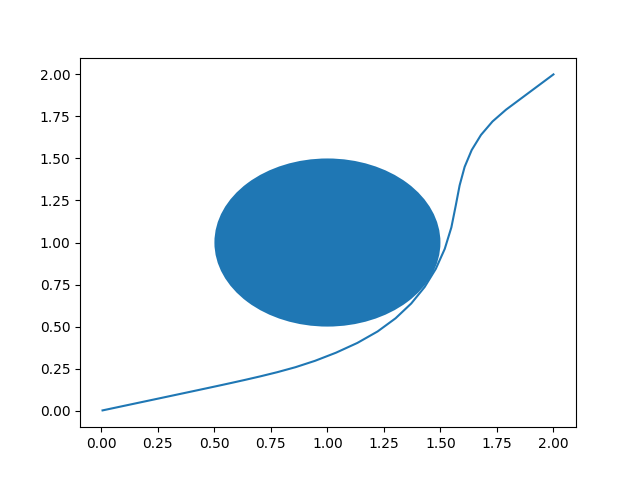
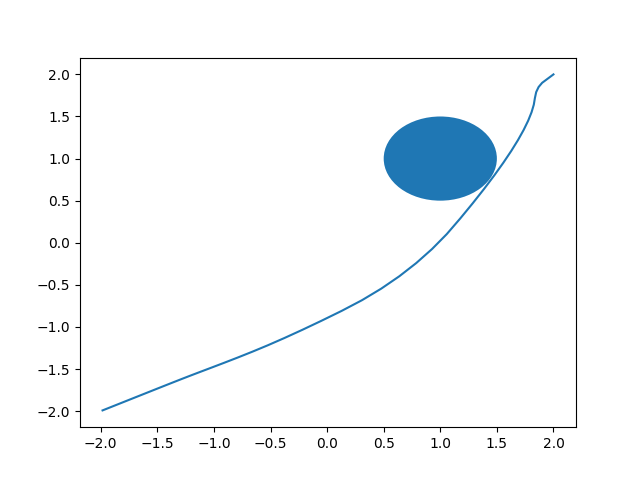
added reference back to point mass example

diff --git a/mpc_minimal_point_mass.py b/mpc_minimal_point_mass.py
@@ -1,14 +1,5 @@
-"""
-Minimal MPC example on the quad, I have removed:
-
-- variable prediction timesteps
-- fancy prediction timestep RK4 integrator
-- unecessary methods
-"""
-
 import casadi as ca
 import numpy as np
-from typing import Dict
 from tqdm import tqdm
 
 def f(x, u):
@@ -39,6 +30,7 @@ class MPC:
         self.X = self.opti.variable(n, N+1) # first state plays no role
         self.U = self.opti.variable(m, N+1) # final input plays no role
         self.x0 = self.opti.parameter(n, 1)
+        self.r = self.opti.parameter(n, 1) # reference parameter
 
         Q = np.diag([1,1,1,1.]) * 5
         R = np.diag([1,1.]) * 0.1
@@ -57,9 +49,6 @@ class MPC:
         # initial conditions
         self.opti.subject_to(self.X[:,0] == self.x0)
 
-        # terminal conditions
-        # self.opti.subject_to(self.X[:,-1] == xT)
-
         # cylinder constraint
         for k in range(N-1):
             # apply the constraint from 2 timesteps in the future as the quad has relative degree 2
@@ -71,18 +60,20 @@ class MPC:
         self.opti.solver('ipopt', {'ipopt.print_level':0, 'print_time':0, 'ipopt.tol': 1e-6})
         cost = ca.MX(0)
         for k in range(N+1):
-            cost += self.X[:,k].T @ Q @ self.X[:,k] + self.U[:,k].T @ R @ self.U[:,k]
+            x_err = self.r - self.X[:,k]
+            cost += x_err.T @ Q @ x_err + self.U[:,k].T @ R @ self.U[:,k]
         self.opti.minimize(cost)
 
         # test solve
         self.x_sol, self.u_sol = np.zeros([n,N+1]), np.zeros([m,N+1])
         self.opti.set_value(self.x0, np.array([2, 2, 0, 0]))
+        self.opti.set_value(self.r, np.array([-2, -2, 0, 0]))
         self.opti.set_initial(self.X, self.x_sol)
         self.opti.set_initial(self.U, self.u_sol)
         sol = self.opti.solve()
         self.x_sol, self.u_sol = sol.value(self.X), sol.value(self.U)
 
-    def __call__(self, x):
+    def __call__(self, x, r):
 
         self.opti.set_value(self.x0, x)
         self.opti.set_initial(self.X, self.x_sol)
@@ -104,11 +95,12 @@ if __name__ == "__main__":
     mpc = MPC(N, Ts, f)
 
     x = np.array([2, 2, 0, 0.])
+    r = np.array([-2,-2, 0, 0])
     x_hist = [x]
     x_preds = []
     times = np.arange(Ti, Tf, Ts)
     for t in tqdm(times):
-        u, preds = mpc(x)
+        u, preds = mpc(x, r)
         # print(u_preds)
         x_preds.append(preds)
         x += f(x, u) * Ts
